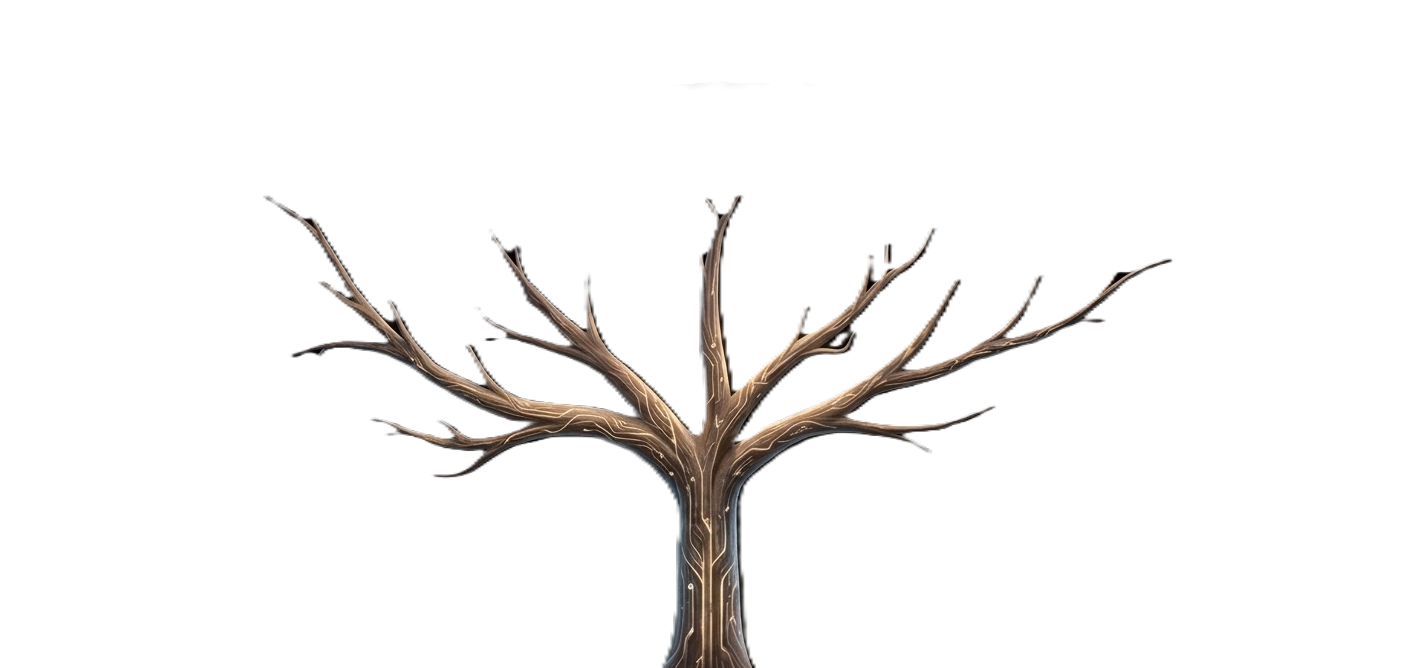
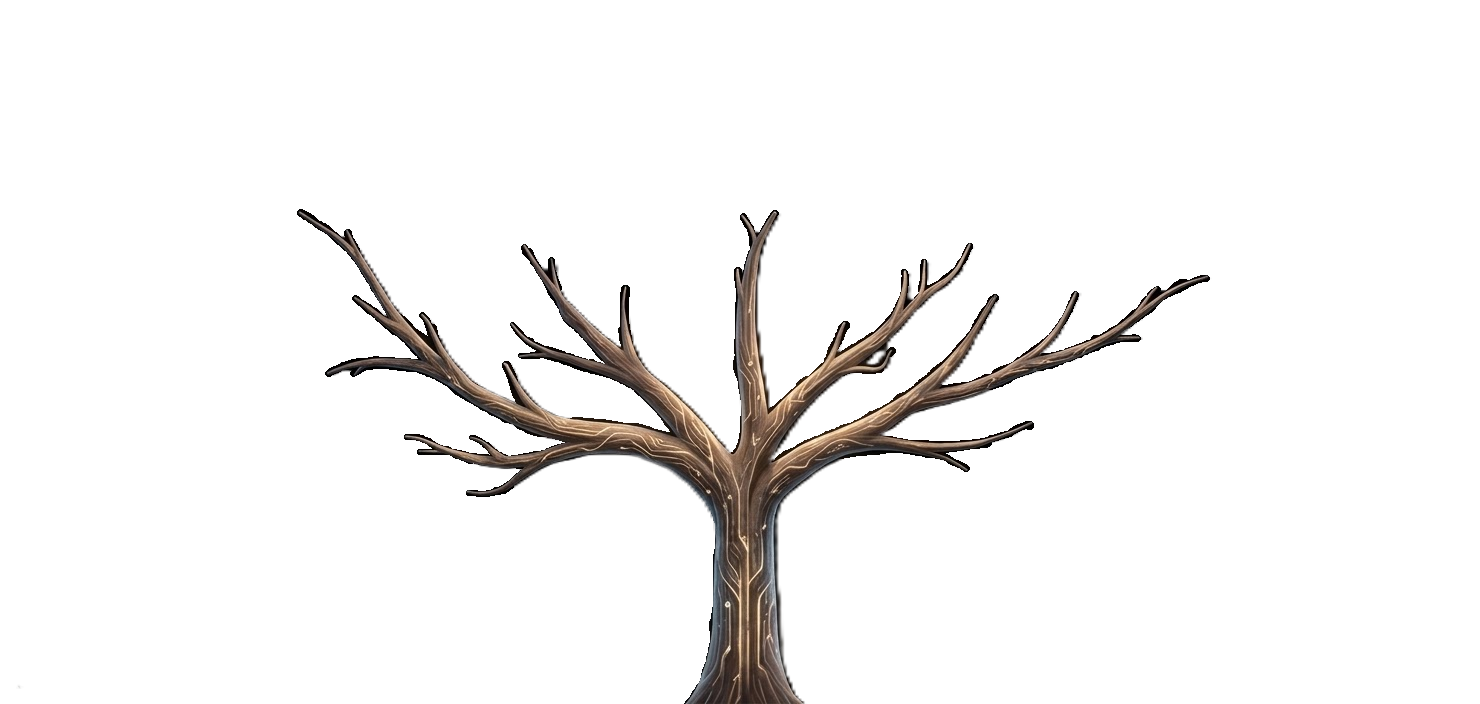
finish

Changed region(s): [[0.1835, 0.2994, 0.8257, 1.0]]

diff --git a/src/app/tree/tree.module.css b/src/app/tree/tree.module.css
@@ -75,9 +75,10 @@
   left: 50%;
   transform: translateX(-50%);
   width: 100vw;
-  height: 90vh;
-  max-width: 1600px;
+  height: 100vh;
   z-index: 10;
+  border: none;
+  outline: none;
 }
 
 .treeImageWrapper {
@@ -85,8 +86,8 @@
   bottom: 0;
   left: 50%;
   transform: translateX(-50%);
-  width: 100%;
-  height: 90%;
+  width: 110%;
+  height: 100%;
   z-index: 1;
 }
 
@@ -95,7 +96,7 @@
   object-position: bottom center;
   user-select: none;
   pointer-events: none;
-  filter: drop-shadow(0 0 40px rgba(180, 130, 50, 0.15));
+  filter: drop-shadow(0 0 50px rgba(180, 130, 50, 0.2));
 }
 
 /* Atmospheric Fog Layer */
@@ -200,7 +201,7 @@
 
 .tooltipName {
   font-size: 12px;
-  color: var(--accent-color);
+  color: #ffffff;
   font-weight: 600;
 }
 

diff --git a/src/app/submit/submit.module.css b/src/app/submit/submit.module.css
@@ -1,4 +1,6 @@
 .container {
+  width: 100vw;
+  height: 100vh;
   min-height: 100vh;
   background: radial-gradient(circle at center, #0a192f 0%, #020c1b 100%);
   position: relative;
@@ -7,7 +9,7 @@
   flex-direction: column;
   align-items: center;
   justify-content: center;
-  padding: 24px;
+  padding: 0;
   color: #fff;
 }
 
@@ -74,6 +76,7 @@
   letter-spacing: -0.5px;
   background: linear-gradient(to bottom, #ffffff, #94a3b8);
   -webkit-background-clip: text;
+  background-clip: text;
   -webkit-text-fill-color: transparent;
   text-shadow: 0 10px 20px rgba(0,0,0,0.3);
 }

diff --git a/src/app/globals.css b/src/app/globals.css
@@ -16,13 +16,25 @@
   padding: 0;
 }
 
+html, body {
+  margin: 0;
+  padding: 0;
+  border: none;
+  outline: none;
+  background-color: #000; /* Force black to prevent white flashes */
+  width: 100vw;
+  height: 100vh;
+  overflow: hidden;
+}
+
 body {
-  background-color: var(--bg-color);
   color: var(--text-color);
   font-family: var(--font-family);
   -webkit-font-smoothing: antialiased;
   -moz-osx-font-smoothing: grayscale;
-  overflow-x: hidden;
+  overflow: hidden; /* Prevent any accidental scrollbars */
+  width: 100vw;
+  height: 100vh;
 }
 
 button {

diff --git a/src/app/layout.tsx b/src/app/layout.tsx
@@ -1,4 +1,5 @@
 import type { Metadata } from 'next'
+import "./globals.css";
 
 export const metadata: Metadata = {
   title: 'Cây Điều Ước',
